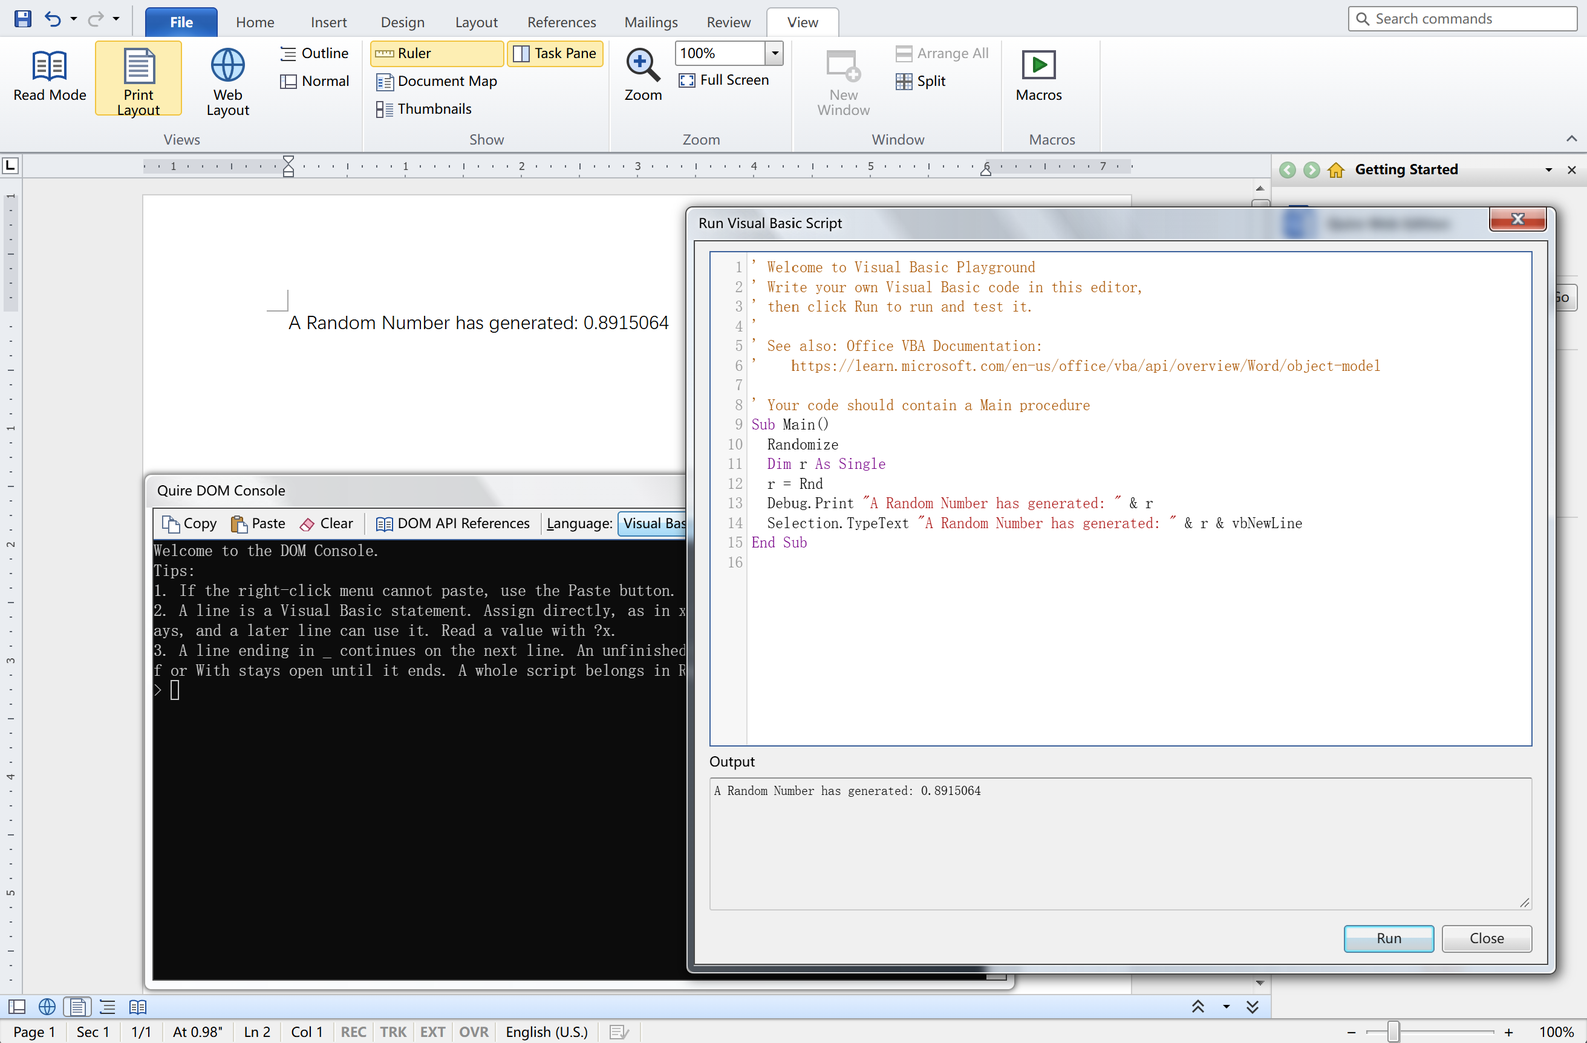
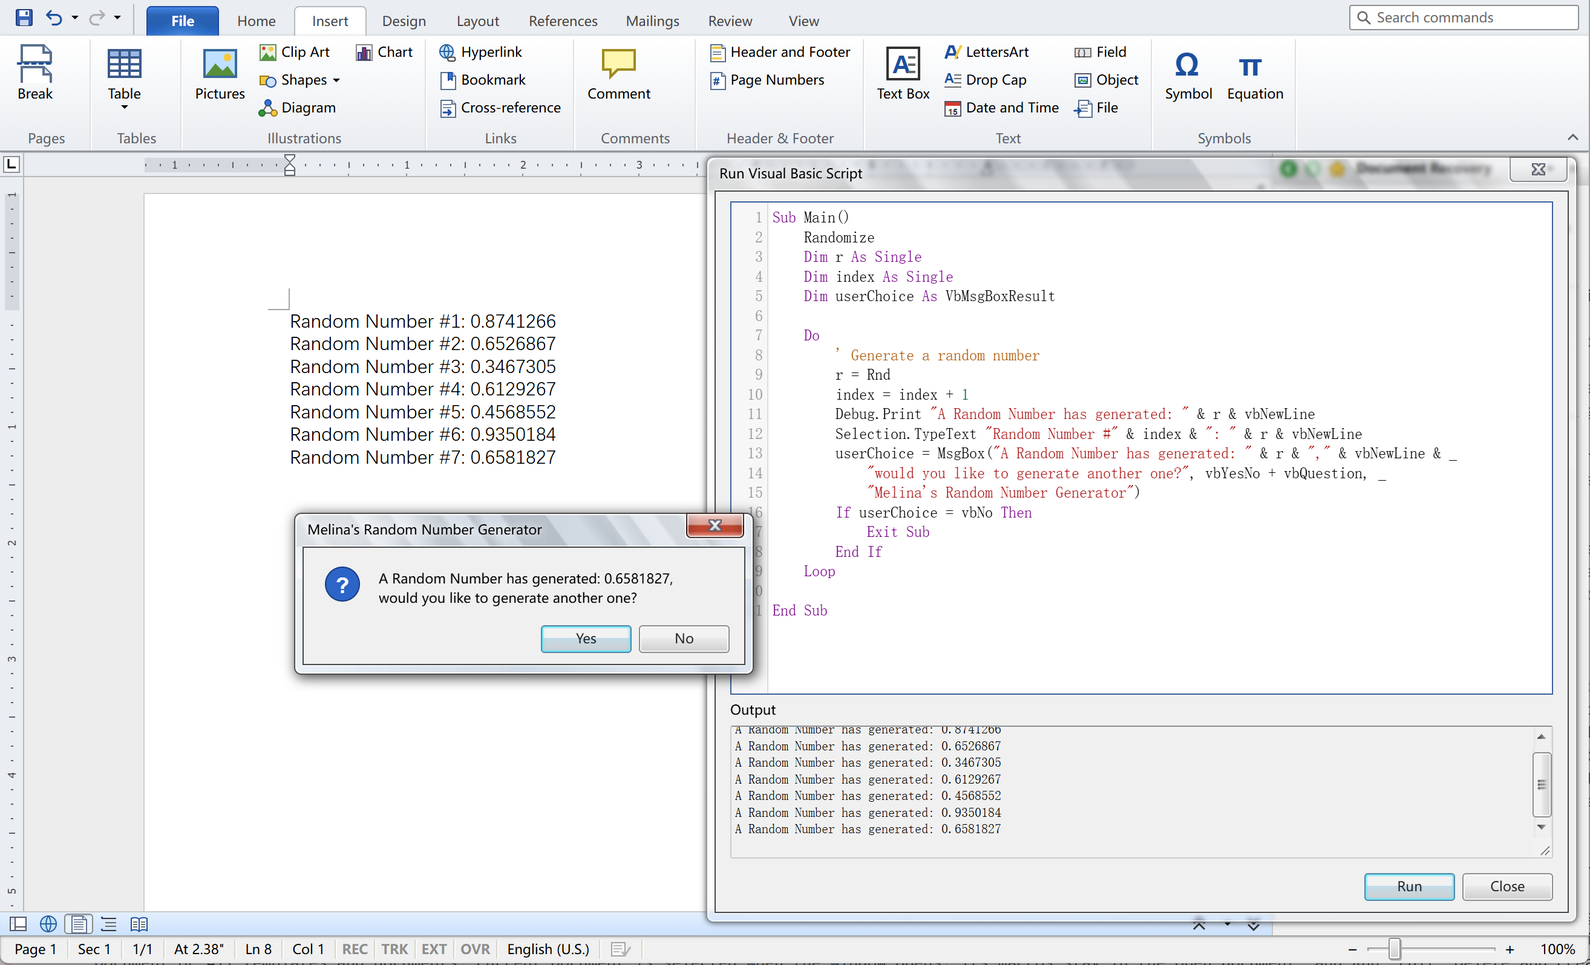
fix(vb6-support): Debug.Print will now immediately print the output to Output Window in code editor.

diff --git a/public/quire/js/dom-console.js b/public/quire/js/dom-console.js
@@ -433,14 +433,12 @@
     }
     async function runImmediate(code) {
       const host = await L.vb.session();
-      const mark = host.output.length;
+      const stopPrints = followPrints(host, (line) => writeOut(line));
       try {
         await evalVB6(joinVb(code));
-      } catch (e) {
-        host.output.slice(mark).forEach((line) => writeOut(line));
-        throw e;
+      } finally {
+        stopPrints();
       }
-      host.output.slice(mark).forEach((line) => writeOut(line));
     }
     async function submit() {
       if (busy) return;
@@ -723,6 +721,25 @@
     return box;
   }
 
+  /* Prints land in host.output as they happen. The Output box used to read that
+     list only after the script returned, so a MsgBox hid every Debug.Print until No. */
+  function followPrints(host, write) {
+    let seen = host.output.length;
+    function flush() {
+      if (!host.output || seen >= host.output.length) return;
+      const next = host.output.slice(seen);
+      seen = host.output.length;
+      for (let i = 0; i < next.length; i++) write(next[i]);
+    }
+    const prev = host.onPrint;
+    function onPrint() { flush(); }
+    host.onPrint = onPrint;
+    return function stop() {
+      if (host.onPrint === onPrint) host.onPrint = prev;
+      flush();
+    };
+  }
+
   function rememberScript(text, log) {
     try {
       localStorage.setItem(SCRIPT_KEY, text);
@@ -854,18 +871,19 @@
       if (!editing) persist();
       const seq = L.D && L.D.hist ? L.D.hist.seq : null;
       const doc = L.D ? L.D.doc : null;
-      let host = null;
-      let mark = 0;
+      let stopPrints = null;
       try {
-        host = await L.vb.session();
-        mark = host.output.length;
+        const host = await L.vb.session();
+        stopPrints = followPrints(host, append);
         const value = editing && L.macros ? await L.macros.runDraft(editing.name, code, editing.store) : await L.runVB6(code);
-        host.output.slice(mark).forEach(append);
+        stopPrints();
+        stopPrints = null;
         if (value !== undefined) append(editing ? String(value) : formatValue(value));
       } catch (e) {
-        if (host) host.output.slice(mark).forEach(append);
+        if (stopPrints) { stopPrints(); stopPrints = null; }
         append(editing && e && e.message ? e.message : formatValue(e));
       } finally {
+        if (stopPrints) stopPrints();
         running = false;
         if (L.D && (L.D.doc !== doc || (seq !== null && L.D.hist && L.D.hist.seq !== seq))) {
           refreshDocument(() => { if (editor) editor.focus(); });
@@ -955,5 +973,6 @@
     joinVb: joinVb,
     hoistFunctions: hoistFunctions,
     scriptSource: scriptSource,
+    followPrints: followPrints,
   };
 })(window);

diff --git a/public/lectern/js/dom-console.js b/public/lectern/js/dom-console.js
@@ -429,14 +429,12 @@
     }
     async function runImmediate(code) {
       const host = await L.vb.session();
-      const mark = host.output.length;
+      const stopPrints = followPrints(host, (line) => writeOut(line));
       try {
         await evalVB6(joinVb(code));
-      } catch (e) {
-        host.output.slice(mark).forEach((line) => writeOut(line));
-        throw e;
+      } finally {
+        stopPrints();
       }
-      host.output.slice(mark).forEach((line) => writeOut(line));
     }
     async function submit() {
       if (busy) return;
@@ -719,6 +717,25 @@
     return box;
   }
 
+  /* Prints land in host.output as they happen. The Output box used to read that
+     list only after the script returned, so a MsgBox hid every Debug.Print until No. */
+  function followPrints(host, write) {
+    let seen = host.output.length;
+    function flush() {
+      if (!host.output || seen >= host.output.length) return;
+      const next = host.output.slice(seen);
+      seen = host.output.length;
+      for (let i = 0; i < next.length; i++) write(next[i]);
+    }
+    const prev = host.onPrint;
+    function onPrint() { flush(); }
+    host.onPrint = onPrint;
+    return function stop() {
+      if (host.onPrint === onPrint) host.onPrint = prev;
+      flush();
+    };
+  }
+
   function rememberScript(text, log) {
     try {
       localStorage.setItem(SCRIPT_KEY, text);
@@ -848,18 +865,19 @@
       /* One run, one result. The saved log is the last run, not a transcript of every earlier one. */
       log.value = '';
       if (!editing) persist();
-      let host = null;
-      let mark = 0;
+      let stopPrints = null;
       try {
-        host = await L.vb.session();
-        mark = host.output.length;
+        const host = await L.vb.session();
+        stopPrints = followPrints(host, append);
         const value = editing && L.macros ? await L.macros.runDraft(editing.name, code, editing.store) : await L.runVB6(code);
-        host.output.slice(mark).forEach(append);
+        stopPrints();
+        stopPrints = null;
         if (value !== undefined) append(editing ? String(value) : formatValue(value));
       } catch (e) {
-        if (host) host.output.slice(mark).forEach(append);
+        if (stopPrints) { stopPrints(); stopPrints = null; }
         append(editing && e && e.message ? e.message : formatValue(e));
       } finally {
+        if (stopPrints) stopPrints();
         running = false;
         refreshDocument(() => { if (editor) editor.focus(); });
       }
@@ -947,5 +965,6 @@
     joinVb: joinVb,
     hoistFunctions: hoistFunctions,
     scriptSource: scriptSource,
+    followPrints: followPrints,
   };
 })(window);

diff --git a/public/ledger/js/dom-console.js b/public/ledger/js/dom-console.js
@@ -439,14 +439,12 @@
     }
     async function runImmediate(code) {
       const host = await L.vb.session();
-      const mark = host.output.length;
+      const stopPrints = followPrints(host, (line) => writeOut(line));
       try {
         await evalVB6(joinVb(code));
-      } catch (e) {
-        host.output.slice(mark).forEach((line) => writeOut(line));
-        throw e;
+      } finally {
+        stopPrints();
       }
-      host.output.slice(mark).forEach((line) => writeOut(line));
     }
     async function submit() {
       if (busy) return;
@@ -729,6 +727,25 @@
     return box;
   }
 
+  /* Prints land in host.output as they happen. The Output box used to read that
+     list only after the script returned, so a MsgBox hid every Debug.Print until No. */
+  function followPrints(host, write) {
+    let seen = host.output.length;
+    function flush() {
+      if (!host.output || seen >= host.output.length) return;
+      const next = host.output.slice(seen);
+      seen = host.output.length;
+      for (let i = 0; i < next.length; i++) write(next[i]);
+    }
+    const prev = host.onPrint;
+    function onPrint() { flush(); }
+    host.onPrint = onPrint;
+    return function stop() {
+      if (host.onPrint === onPrint) host.onPrint = prev;
+      flush();
+    };
+  }
+
   function rememberScript(text, log) {
     try {
       localStorage.setItem(SCRIPT_KEY, text);
@@ -858,18 +875,19 @@
       /* One run, one result. The saved log is the last run, not a transcript of every earlier one. */
       log.value = '';
       if (!editing) persist();
-      let host = null;
-      let mark = 0;
+      let stopPrints = null;
       try {
-        host = await L.vb.session();
-        mark = host.output.length;
+        const host = await L.vb.session();
+        stopPrints = followPrints(host, append);
         const value = editing && L.macros ? await L.macros.runDraft(editing.name, code, editing.store) : await L.runVB6(code);
-        host.output.slice(mark).forEach(append);
+        stopPrints();
+        stopPrints = null;
         if (value !== undefined) append(editing ? String(value) : formatValue(value));
       } catch (e) {
-        if (host) host.output.slice(mark).forEach(append);
+        if (stopPrints) { stopPrints(); stopPrints = null; }
         append(editing && e && e.message ? e.message : formatValue(e));
       } finally {
+        if (stopPrints) stopPrints();
         running = false;
         refreshDocument(() => { if (editor) editor.focus(); });
       }
@@ -957,5 +975,6 @@
     joinVb: joinVb,
     hoistFunctions: hoistFunctions,
     scriptSource: scriptSource,
+    followPrints: followPrints,
   };
 })(window);

diff --git a/tests/quire/dom-console.test.js b/tests/quire/dom-console.test.js
@@ -89,6 +89,29 @@ test('an empty console script opens on the sample that types at the cursor', () 
   assert.equal(L.domConsole.scriptSource(kept), kept);
 });
 
+test('a print is shown while the script is still waiting', async () => {
+  const host = { output: ['earlier'] };
+  const shown = [];
+  let release;
+  const paused = new Promise((resolve) => { release = resolve; });
+  const stop = L.domConsole.followPrints(host, (line) => { shown.push(line); });
+  const running = (async () => {
+    host.output.push('0.3750879');
+    host.onPrint();
+    await paused;
+    host.output.push('done');
+    host.onPrint();
+  })();
+  assert.deepEqual(shown, ['0.3750879']);
+  release();
+  await running;
+  stop();
+  assert.deepEqual(shown, ['0.3750879', 'done']);
+  host.output.push('after');
+  assert.equal(host.onPrint, undefined);
+  assert.deepEqual(shown, ['0.3750879', 'done']);
+});
+
 test('the page globals are visible', async () => {
   fresh();
   assert.equal(await L.domConsole.evaluate('ActiveDocument.Paragraphs.Count'), 1);

diff --git a/tests/quire/vb-run.test.js b/tests/quire/vb-run.test.js
@@ -90,6 +90,22 @@ test('runVB6 compiles a module without disturbing Immediate locals', { timeout: 
     }
     assert.equal(ActiveDocument.Paragraphs(1).Range.Text, 'ok\r');
     assert.equal(await evalVB6('?scratch'), 7);
+
+    const live = [];
+    host.onPrint = () => { live.push(host.output[host.output.length - 1]); };
+    let atBox = null;
+    host.msgBox = () => {
+      atBox = live.slice();
+      return Promise.resolve(7);
+    };
+    try {
+      await runVB6('Sub Main()\n  Debug.Print "one"\n  MsgBox "again?"\n  Debug.Print "two"\nEnd Sub');
+      assert.deepEqual(atBox, ['one']);
+      assert.deepEqual(live, ['one', 'two']);
+    } finally {
+      host.onPrint = null;
+      host.msgBox = null;
+    }
   } finally {
     const host = await L.vb.session();
     host.close();

diff --git a/public/lectern/js/vb-host.js b/public/lectern/js/vb-host.js
@@ -241,7 +241,11 @@
     const host = this;
     const vmHost = {
       automation: registry,
-      print: function (text) { host.output.push(text == null ? '' : String(text)); },
+      /* onPrint runs in this turn, so the Output box can show the line before MsgBox waits. */
+      print: function (text) {
+        host.output.push(text == null ? '' : String(text));
+        if (typeof host.onPrint === 'function') host.onPrint();
+      },
       error: function (err) { host.errors.push(err); },
     };
     for (let i = 0; i < SLOTS.length; i++) {

diff --git a/public/ledger/js/vb-host.js b/public/ledger/js/vb-host.js
@@ -290,7 +290,11 @@
     const host = this;
     const vmHost = {
       automation: registry,
-      print: function (text) { host.output.push(text == null ? '' : String(text)); },
+      /* onPrint runs in this turn, so the Output box can show the line before MsgBox waits. */
+      print: function (text) {
+        host.output.push(text == null ? '' : String(text));
+        if (typeof host.onPrint === 'function') host.onPrint();
+      },
       error: function (err) { host.errors.push(err); },
     };
     for (let i = 0; i < SLOTS.length; i++) {

diff --git a/public/quire/js/vb-host.js b/public/quire/js/vb-host.js
@@ -237,7 +237,11 @@
     const host = this;
     const vmHost = {
       automation: registry,
-      print: function (text) { host.output.push(text == null ? '' : String(text)); },
+      /* onPrint runs in this turn, so the Output box can show the line before MsgBox waits. */
+      print: function (text) {
+        host.output.push(text == null ? '' : String(text));
+        if (typeof host.onPrint === 'function') host.onPrint();
+      },
       error: function (err) { host.errors.push(err); },
     };
     for (let i = 0; i < SLOTS.length; i++) {

diff --git a/docs/quire.md b/docs/quire.md
@@ -19,7 +19,7 @@ In Print Layout, double-click the gray gap between two pages to hide the white s
 Selecting text with the mouse or the keyboard shows a small formatting bar just above and to the right of the pointer (in the Windows 7 look, a glass window with the controls drawn on the glass): font, size, grow and shrink, clear formatting, highlight, font colour, bold, italic, underline, strikethrough, subscript, superscript, bullets, numbering and the style list. It starts partly see-through, becomes solid while the pointer is on it or on a menu it opened, and fades out with the distance from where it opened, gone past 50 pixels. Once it has faded out it stays hidden until the next selection. A caret, typing, Escape or scrolling the page also puts it away.
 Help ▸ Quire DOM Console (File, in the Paper 2016 look) opens a terminal on this page. What you run there uses the open document and stays on the machine. The bar under the title is Copy, Paste, Clear, DOM API References, and Language. Language is Visual Basic 6 or JavaScript; Visual Basic 6 is selected until you choose the other, and the choice is kept. Choosing a language clears the terminal and prints that language's welcome. Closing the window is the title's close button. Paste puts the clipboard into the terminal; when that text does not arrive, a box takes the paste and OK puts it in. DOM API References opens the Visual Basic DOM API Reference on the task pane. That page lists the Visual Basic this app runs, how it differs from Microsoft VBA and VBScript, and the members on the open document. It stays open beside the console.
 
-Visual Basic 6 runs each finished entry with the Immediate session. Enter runs a finished line. Shift+Enter, a line ending in `_`, or an unfinished `Sub`, `Function`, `If` or `With`, keeps the line open. Assign with `x = 1`. The name stays, and a later line can use it. `?x` prints the value. A whole script is not compiled here. Run Script, on the bar only in Visual Basic 6, opens a modeless window: an editor, a read-only Output box, Run and Close. Run compiles the buffer and runs `Sub Main`. Each Run replaces the Output box with that run. The editor text and that output remain after a refresh. When that editor has never held a script, or the script was empty when the window last closed, it opens on a welcome `Sub Main`. The comments welcome the user, say to write Visual Basic and click Run, and link to the Word VBA object model. The procedure inserts one sentence at the cursor. A macro opened in the same window keeps its own source. That window does not call macros stored in the document.
+Visual Basic 6 runs each finished entry with the Immediate session. Enter runs a finished line. Shift+Enter, a line ending in `_`, or an unfinished `Sub`, `Function`, `If` or `With`, keeps the line open. Assign with `x = 1`. The name stays, and a later line can use it. `?x` prints the value. A whole script is not compiled here. Run Script, on the bar only in Visual Basic 6, opens a modeless window: an editor, a read-only Output box, Run and Close. Run compiles the buffer and runs `Sub Main`. Each Run replaces the Output box with that run. Debug.Print is written into that box when the statement runs, so the line is visible while a message box is still open. The editor text and that output remain after a refresh. When that editor has never held a script, or the script was empty when the window last closed, it opens on a welcome `Sub Main`. The comments welcome the user, say to write Visual Basic and click Run, and link to the Word VBA object model. The procedure inserts one sentence at the cursor. A macro opened in the same window keeps its own source. That window does not call macros stored in the document.
 
 Tools ▸ Macro ▸ Macros (Alt+F8; View ▸ Macros in the Paper 2016 look) first shows a notice titled Notice on Macros in Quire, unless Never show this message again was checked the last time OK was clicked. The box is unchecked when the notice opens. The notice says macros created by Microsoft Word are not executed in Quire, that Quire saves the document text rather than a Word VBA project, that macros written here and macros written in Word do not load in the other, and that these macros are for editing with Visual Basic and for agents rather than for Word compatibility. OK opens the Macros window. The title's close button leaves it closed. The window lists macros. Macros in is Current Document or All templates and documents. Current Document is selected when the window opens. Its macros stay in the open document, and Run, Edit, Delete and Create behave as before. All templates and documents keeps a separate list in this browser, the same list for every document opened here. Choosing it lists, runs, edits, deletes and creates only that list. Step Into and Organizer stay disabled: stepping waits until this editor is the Visual Basic editor. Run closes the window and runs the saved macro. Edit and Create close it and open the Run Script window with that macro's name, which cannot be edited there, and a Save button. A name that is not one identifier as the Visual Basic lexer reads it — a letter, underscore or code point from U+0080 through U+FFFF, then those or digits, with one optional type suffix, or a bracketed name — is refused at once. The message says the procedure name is not a legal Visual Basic identifier, and dismissing it closes that window. Run Script opened on its own has no macro name to check. Save writes the source back to where that macro is kept. Run in that window tries the buffer together with the other macros in the same list, without saving. Closing it with unsent changes asks whether to save. There is no macro recording.
 

diff --git a/docs/lectern.md b/docs/lectern.md
@@ -383,7 +383,7 @@ counts. Four pages load without console errors. All 15 batch-4 samples passed Po
 
 ## DOM Console
 
-Help ▸ Lectern DOM Console opens a modeless window on this page. The language starts as Visual Basic 6. A line is one statement (`ActivePresentation.Slides(1).Shapes.Title.TextFrame.TextRange.Text = "Hello"`). `?` reads a value. Run Script compiles a standard module whose entry is `Sub Main`. The default sample writes the title placeholder. JavaScript in the same window can call `evalVB6` and `runVB6`. DOM API References opens the Visual Basic DOM API Reference on the task pane (`js/vb-dom-ref.js`). That page lists the members this app runs and how they differ from Microsoft VBA. A change to a member updates [lectern_dom_api_specifications.md](lectern_dom_api_specifications.md) and that file together.
+Help ▸ Lectern DOM Console opens a modeless window on this page. The language starts as Visual Basic 6. A line is one statement (`ActivePresentation.Slides(1).Shapes.Title.TextFrame.TextRange.Text = "Hello"`). `?` reads a value. Run Script compiles a standard module whose entry is `Sub Main`. Debug.Print is written to the Output box when the statement runs, so the line is visible while a message box is still open. The default sample writes the title placeholder. JavaScript in the same window can call `evalVB6` and `runVB6`. DOM API References opens the Visual Basic DOM API Reference on the task pane (`js/vb-dom-ref.js`). That page lists the members this app runs and how they differ from Microsoft VBA. A change to a member updates [lectern_dom_api_specifications.md](lectern_dom_api_specifications.md) and that file together.
 
 The members, the gap codes (`G-TEXT`, `G-ENGINE`, `G-HOST`) and the worked calls are in [lectern_dom_api_specifications.md](lectern_dom_api_specifications.md). The handle protocol is [lectern_dom_ir_specifications.md](lectern_dom_ir_specifications.md). Milestones M1–M5 are implemented ([lectern_dom_ir_porting_milestones.md](lectern_dom_ir_porting_milestones.md)). The VB schedule P1–P5 is implemented; a form project is not ([lectern_vbs_support_schedule.md](lectern_vbs_support_schedule.md)). Paste `tests/lectern/vb-milestones-sample.js` into the console with the language set to JavaScript, then run `await runVbMilestones()`. The Node checks are `node --test tests/lectern/vb-m1.test.js` through `vb-m5`, plus `vb-host`, `vb-eval`, `vb-run` and `vb-macros`. The engine bundle is gitignored; `node tools/vb6/build-engine.mjs` writes it.
 

diff --git a/docs/quire_vbs_support_schedule.md b/docs/quire_vbs_support_schedule.md
@@ -126,7 +126,7 @@ JavaScript is the console that was already there. Its welcome adds a third tip: 
 
 Visual Basic 6 types into the same terminal and runs with `evalVB6`. A statement returns Empty and is not printed. `?expr` and `Print` print the VB value (`True`, not the JavaScript `true`). A line ending in `_` continues. An unfinished `Sub`, `Function`, `If` or `With` stays open until it ends. Immediate locals carry to the next line. The console does not compile a procedure into the running program.
 
-In Visual Basic 6 the bar also has Run Script. It opens a modeless window titled Run Visual Basic Script: a CodeMirror editor (MIT, `public/common/vendor/codemirror/`, VB mode), a read-only Output box, and Run and Close. Run calls `runVB6` on the whole buffer, so the script needs `Sub Main`. Output shows what the script prints and any error. A later Run replaces that output. The buffer and the latest output are kept in `localStorage` across a refresh. A buffer that was never edited, or that was empty when the window last closed, opens on a welcome `Sub Main`. The comments welcome the user, say to write Visual Basic and click Run, and link to the Word VBA object model. The procedure inserts one sentence at the cursor. A macro opened in the same window keeps its own source.
+In Visual Basic 6 the bar also has Run Script. It opens a modeless window titled Run Visual Basic Script: a CodeMirror editor (MIT, `public/common/vendor/codemirror/`, VB mode), a read-only Output box, and Run and Close. Run calls `runVB6` on the whole buffer, so the script needs `Sub Main`. Output shows what the script prints and any error. Debug.Print is written there when the statement runs, so the line is visible while a message box is still open. A later Run replaces that output. The buffer and the latest output are kept in `localStorage` across a refresh. A buffer that was never edited, or that was empty when the window last closed, opens on a welcome `Sub Main`. The comments welcome the user, say to write Visual Basic and click Run, and link to the Word VBA object model. The procedure inserts one sentence at the cursor. A macro opened in the same window keeps its own source.
 
 **Done when.** A VB statement in the console edits the open document and a following `?` reads it back, JavaScript still runs when chosen, Run Script runs a module with a loop, and the script text is still there after a refresh.
 

diff --git a/docs/lectern_vbs_support_schedule.md b/docs/lectern_vbs_support_schedule.md
@@ -73,7 +73,7 @@ Implemented. `tests/lectern/vb-run.test.js`. `Twice(21)` is 42 and does not chan
 
 ### P5. DOM Console
 
-Implemented. Help ▸ Lectern DOM Console, and the same command on the File menu of the Paper 2016 ribbon. The window is modeless. The language starts as Visual Basic 6 and is remembered in `vibeoffice.lectern.domConsole.lang`. JavaScript still runs. Run Script stores its buffer in `vibeoffice.lectern.vbScript`. The default sample sets the title placeholder and points at the PowerPoint VBA object model. After a line or a script, the slide is drawn again.
+Implemented. Help ▸ Lectern DOM Console, and the same command on the File menu of the Paper 2016 ribbon. The window is modeless. The language starts as Visual Basic 6 and is remembered in `vibeoffice.lectern.domConsole.lang`. JavaScript still runs. Run Script stores its buffer in `vibeoffice.lectern.vbScript`. The default sample sets the title placeholder and points at the PowerPoint VBA object model. After a line or a script, the slide is drawn again. Debug.Print is written to the Output box when the statement runs, so the line is visible while a message box is still open.
 
 `tests/lectern/vb-milestones-sample.js` is pasted into that window with the language set to JavaScript, then `await runVbMilestones()`. It is not a Node test. Node runs the `vb-m*.test.js` files.
 
